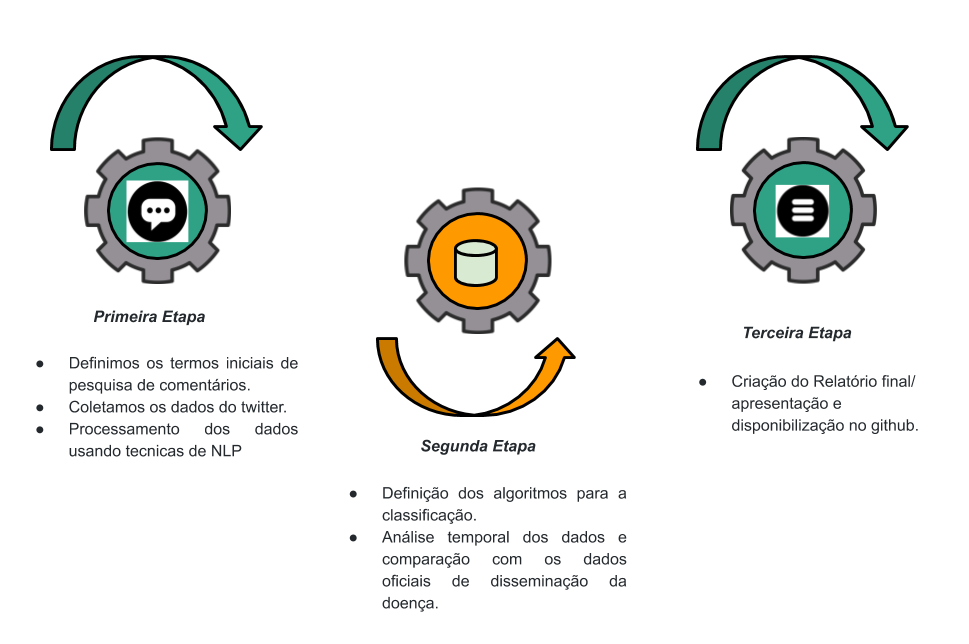
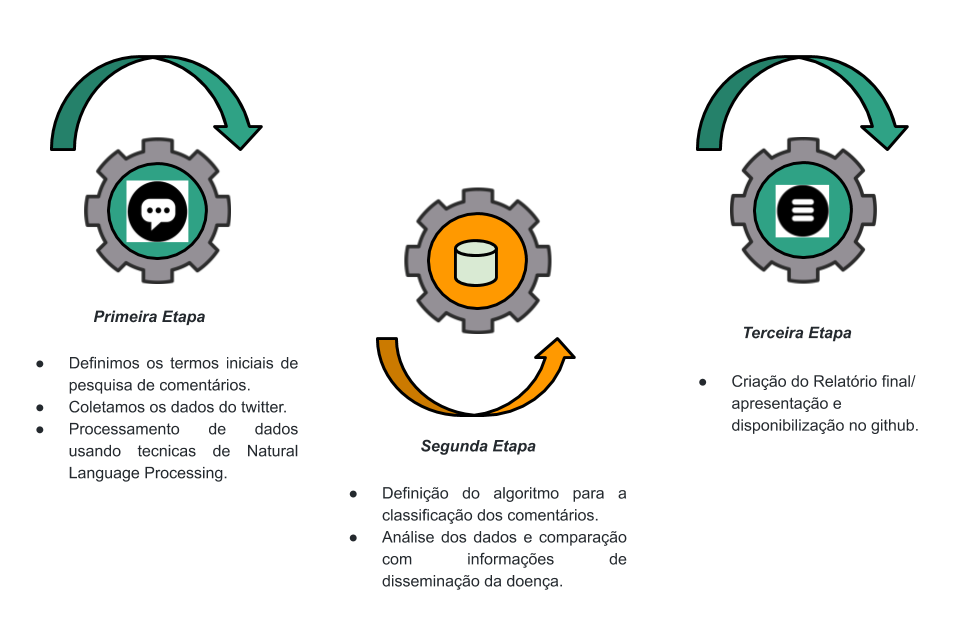
Atualizaçao da Figura1

Changed region(s): [[0.4025, 0.7453, 0.6502, 0.9627], [0.0619, 0.6522, 0.3096, 0.7453], [0.4644, 0.7453, 0.4954, 0.7764]]

diff --git a/README.md b/README.md
@@ -200,18 +200,19 @@ Exemplos de comentários classificados:
 
 *Primeira Etapa*
 
-- Definimos os termos inicias de pesquisa de comentarios.
-- Coletamos os dados do twitter das datas ... 
--  Procesamento dos dados usando tecnicas de NLP
+- Definimos os termos iniciais de pesquisa de comentários.
+- Coletamos os dados do twitter.
+- Processamento de dados usando tecnicas de Natural Language Processing.
 
 *Segunda Etapa*
 
-- Definição dos algoritmos não supervicionados para a classificação.
-- Análise temporal dos dados e comparação com os dados oficiais de disseminação da doença.
+- Definição do algoritmo para a classificação dos comentários.
+- Análise dos dados e comparação com informações de disseminação da doença.
+
 
 *Terceira Etapa*
 
-- Criação do Relatório final/apresentação e disponibilização no github
+- Criação do Relatório final/ apresentação e disponibilização no github.
 
 ![Figure1. Evolução do Projeto](imagens/Covid19-Twitter-Tracker.png)
 
